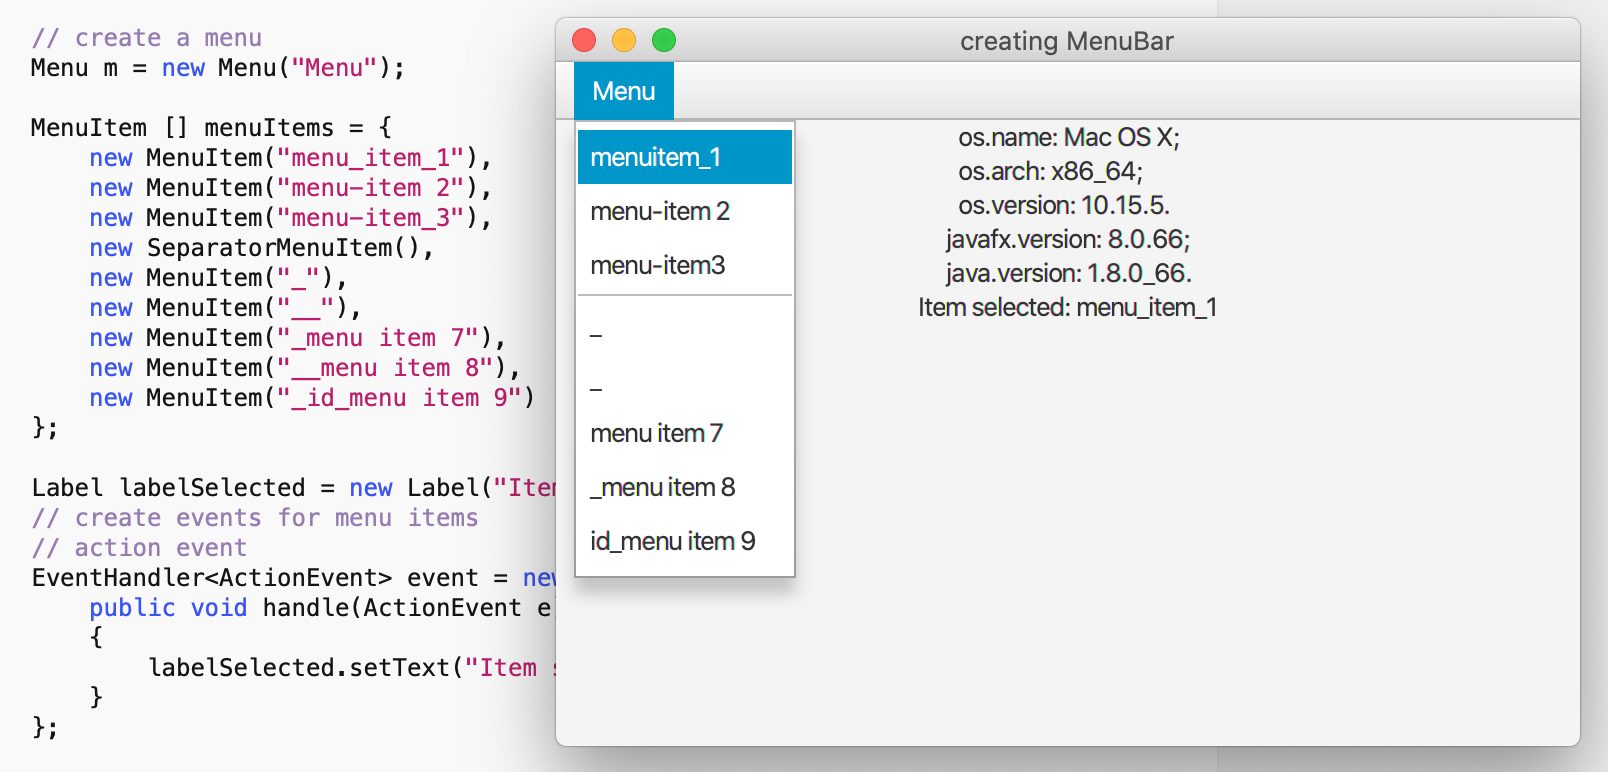
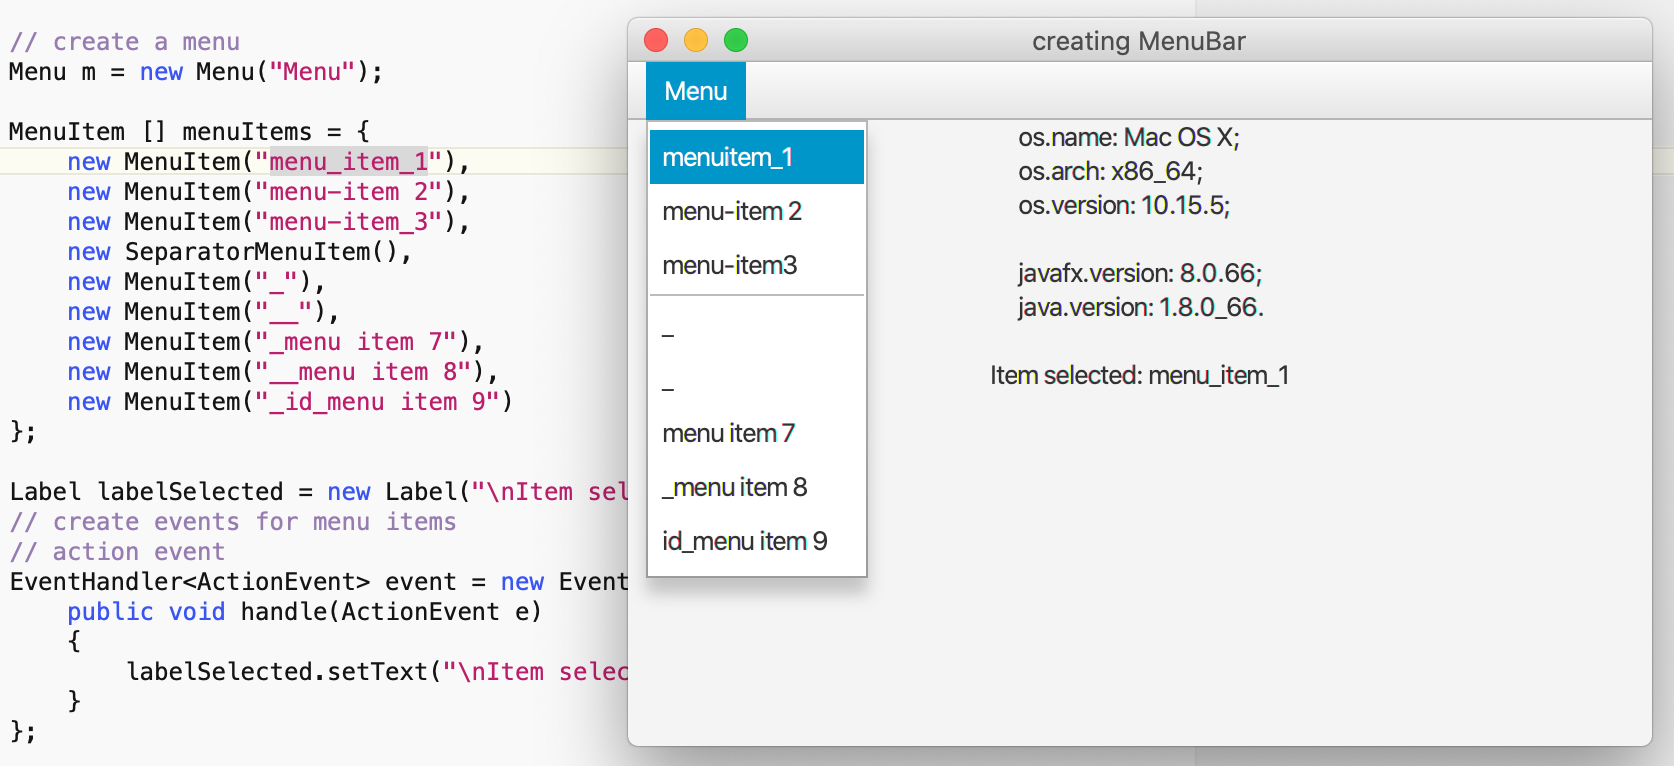
wip

diff --git a/MenuBar_1.java b/MenuBar_1.java
@@ -23,8 +23,8 @@ public class MenuBar_1 extends Application {
 		String osVersion = System.getProperty("os.version");
 		String javaVersion = System.getProperty("java.version");
 		String javafxVersion = System.getProperty("javafx.version");
-		Label labelOS = new Label ("os.name: " + osName + ";\nos.arch: " + osArch + ";\nos.version: " + osVersion + ".");
-		Label labelJava = new Label("javafx.version: " + javafxVersion + ";\njava.version: " + javaVersion + ".");
+		Label labelVersion = new Label ("os.name: " + osName + ";\nos.arch: " + osArch + ";\nos.version: " + osVersion + ";\n\n"
+			+ "javafx.version: " + javafxVersion + ";\njava.version: " + javaVersion + ".");
 
 		// create a menu 
 		Menu m = new Menu("Menu");
@@ -41,13 +41,13 @@ public class MenuBar_1 extends Application {
 			new MenuItem("_id_menu item 9")
 		};
 
-		Label labelSelected = new Label("Item selected: none");
+		Label labelSelected = new Label("\nItem selected: none");
 		// create events for menu items
 		// action event
 		EventHandler<ActionEvent> event = new EventHandler<ActionEvent>() {
 			public void handle(ActionEvent e)
 			{
-				labelSelected.setText("Item selected: " +((MenuItem)e.getSource()).getText());
+				labelSelected.setText("\nItem selected: " +((MenuItem)e.getSource()).getText());
 			}
 		};
 
@@ -67,7 +67,7 @@ public class MenuBar_1 extends Application {
 		mb.getMenus().add(m);
 
 		// create a VBox 
-		VBox vb = new VBox(mb, labelOS, labelJava, labelSelected);
+		VBox vb = new VBox(mb, labelVersion, labelSelected);
 		vb.setAlignment(javafx.geometry.Pos.TOP_CENTER);
 
 		// create a scene 
